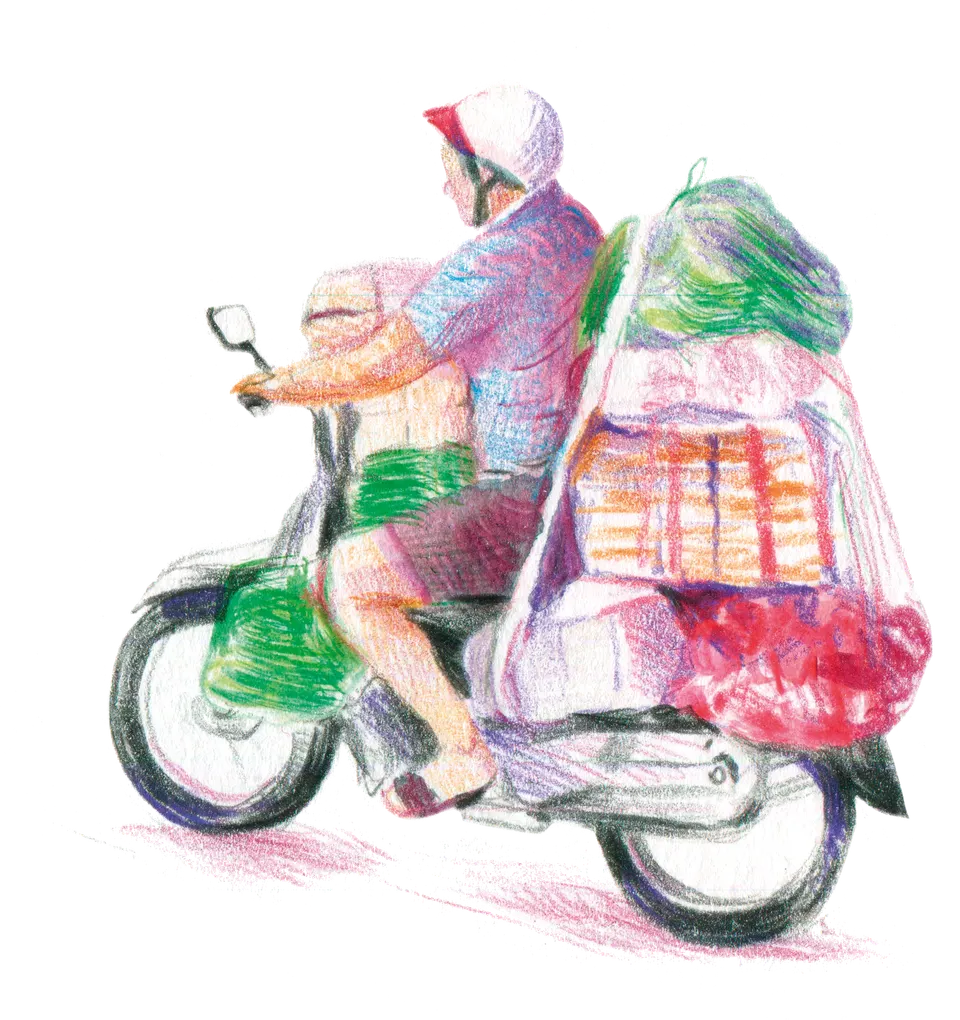
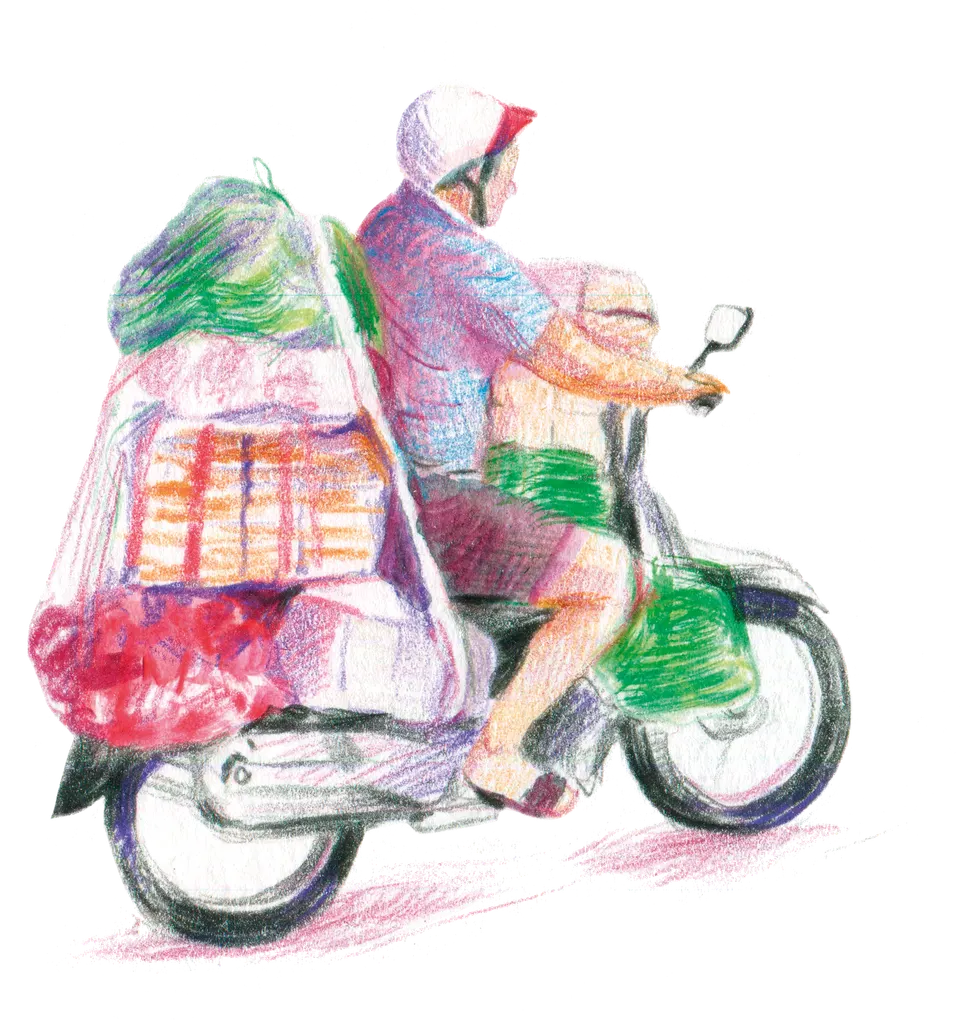
stand.png en image principale du hero + scooter v2 detoure sens gauche->droite
- scooter.png v2 (fond transparent, regarde a droite): variantes AVIF/WebP
  regenerees, animation remise gauche->droite, legendes Ha Noi gauche /
  Sai Gon droite (le sens suit toujours le dessin)
- stand.png = image principale: figure centrale du hero (700px max,
  fetchpriority high, LCP), retiree de la section voyages
- Sous-titre hero redondant avec le kicker supprime

diff --git a/docs/index.html b/docs/index.html
@@ -125,19 +125,28 @@
     <picture>
       <source type="image/avif" srcset="./assets/illus/lanternes-480.avif 480w, ./assets/illus/lanternes-960.avif 960w" sizes="(max-width: 600px) 26vw, 200px" />
       <source type="image/webp" srcset="./assets/illus/lanternes-480.webp 480w, ./assets/illus/lanternes-960.webp 960w" sizes="(max-width: 600px) 26vw, 200px" />
-      <img src="./assets/illus/lanternes-480.webp" width="480" height="898" alt="" fetchpriority="high" decoding="async" />
+      <img src="./assets/illus/lanternes-480.webp" width="480" height="898" alt="" decoding="async" />
     </picture>
   </div>
 
   <div class="wrap">
     <p class="cover-kicker">Cuisine de rue vietnamienne · Toulouse</p>
     <h1 class="cover-title" id="cover-title"><span class="viet" lang="vi">Chợ Vỉa Hè</span></h1>
-    <p class="cover-sub">Cuisine de rue vietnamienne — Toulouse</p>
     <p class="cover-annotation handwritten">le carnet de voyage d'une famille</p>
     <p class="cover-actions">
       <a class="btn-cta" href="https://bookings.zenchef.com/results?rid=377642" target="_blank" rel="noopener">Réserver une table</a>
       <a class="ink-link cover-scroll" href="#genese" data-ink>Feuilleter le carnet ↓</a>
     </p>
+
+    <figure class="cover-stand">
+      <picture>
+        <source type="image/avif" srcset="./assets/illus/stand-480.avif 480w, ./assets/illus/stand-960.avif 960w, ./assets/illus/stand-1440.avif 1440w" sizes="(max-width: 700px) 94vw, 700px" />
+        <source type="image/webp" srcset="./assets/illus/stand-480.webp 480w, ./assets/illus/stand-960.webp 960w, ./assets/illus/stand-1440.webp 1440w" sizes="(max-width: 700px) 94vw, 700px" />
+        <img src="./assets/illus/stand-960.webp" width="960" height="698" fetchpriority="high" decoding="async"
+             alt="Illustration au crayon de couleur : le stand de cuisine de rue Chợ Vỉa Hè, parasol, marmites fumantes et clients sur tabourets." />
+      </picture>
+      <figcaption class="handwritten">l'étal, comme là-bas</figcaption>
+    </figure>
   </div>
 </section>
 
@@ -211,15 +220,6 @@
       </div>
     </div>
     <p class="visually-hidden">Illustration&nbsp;: un scooter chargé traverse la route entre Hà Nội et Sài Gòn.</p>
-
-    <figure class="stand-feature">
-      <picture>
-        <source type="image/avif" srcset="./assets/illus/stand-480.avif 480w, ./assets/illus/stand-960.avif 960w, ./assets/illus/stand-1440.avif 1440w" sizes="(max-width: 700px) 92vw, 640px" />
-        <source type="image/webp" srcset="./assets/illus/stand-480.webp 480w, ./assets/illus/stand-960.webp 960w, ./assets/illus/stand-1440.webp 1440w" sizes="(max-width: 700px) 92vw, 640px" />
-        <img loading="lazy" decoding="async" src="./assets/illus/stand-960.webp" width="960" height="698" alt="Illustration au crayon de couleur : un stand de cuisine de rue vietnamien, marmites fumantes et tabourets." />
-      </picture>
-      <figcaption class="handwritten">l'étal, comme là-bas</figcaption>
-    </figure>
   </div>
 </section>
 

diff --git a/docs/home.css b/docs/home.css
@@ -492,22 +492,22 @@ h3 {
   transform: rotate(-4deg);
   z-index: 1;
 }
-.track-legend--hanoi { top: 6%; right: 6%; }
-.track-legend--saigon { bottom: 8%; left: 8%; color: var(--bleu); transform: rotate(3deg); }
+.track-legend--hanoi { top: 6%; left: 6%; }
+.track-legend--saigon { bottom: 8%; right: 8%; color: var(--bleu); transform: rotate(3deg); }
 .marg-paniers { width: clamp(80px, 18vw, 150px); bottom: 2%; right: 3%; opacity: 0.5; }
 
-/* stand.png = l'illustration centrale de la section voyages */
-.stand-feature {
-  margin: 2.5rem auto 0;
-  max-width: min(92vw, 640px);
+/* stand.png = image principale du site (hero) — styles dans la section couverture */
+.cover-stand {
+  margin: clamp(1.5rem, 4vw, 2.5rem) auto 0;
+  max-width: min(94vw, 700px);
   text-align: center;
 }
-.stand-feature img {
+.cover-stand img {
   width: 100%;
   height: auto;
   filter: drop-shadow(0 14px 22px rgba(30,26,23,0.14));
 }
-.stand-feature figcaption {
+.cover-stand figcaption {
   margin-top: 0.6rem;
   font-family: var(--f-hand);
   font-size: clamp(1.15rem, 3vw, 1.5rem);

diff --git a/docs/home.js b/docs/home.js
@@ -170,9 +170,8 @@
     var legSaigon = track.querySelector('.track-legend--saigon');
     if (!scooter) return;
 
-    // Distance de translation. Sens inversé (retour user): le dessin regarde
-    // à gauche, donc le scooter part de la droite et roule vers la gauche
-    // (Hà Nội à droite -> Sài Gòn à gauche).
+    // Le sens suit TOUJOURS le dessin: scooter.png v2 (détouré) regarde à
+    // droite, donc gauche -> droite (Hà Nội à gauche, Sài Gòn à droite).
     function travel() {
       var trackW = track.clientWidth;
       var sW = scooter.offsetWidth;
@@ -184,8 +183,8 @@
     if (legHanoi) gsap.set(legHanoi, { opacity: 0 });
     if (legSaigon) gsap.set(legSaigon, { opacity: 0 });
 
-    // état initial du scooter côté droit
-    gsap.set(scooter, { x: travel(), y: 0, rotation: 0, transformOrigin: '50% 100%' });
+    // état initial du scooter côté gauche
+    gsap.set(scooter, { x: 0, y: 0, rotation: 0, transformOrigin: '50% 100%' });
 
     var tl = gsap.timeline({
       scrollTrigger: {
@@ -197,7 +196,7 @@
     });
 
     // translation principale (ease none = suit le doigt/scroll = "on roule")
-    tl.to(scooter, { x: 0, ease: 'none', duration: 1 }, 0);
+    tl.to(scooter, { x: function () { return travel(); }, ease: 'none', duration: 1 }, 0);
 
     // bob vertical sinusoïdal + rotation : petites oscillations sur la course.
     // On les superpose via des keyframes pour l'effet "cahote sur le papier".
@@ -218,9 +217,9 @@
       tl.to(legSaigon, { opacity: 1, ease: 'power2.out', duration: 0.2 }, 0.62);
     }
 
-    // Recalcule la position de départ (droite) si la largeur change.
+    // Recalcule la course si la largeur change.
     ScrollTrigger.addEventListener('refreshInit', function () {
-      gsap.set(scooter, { x: travel() });
+      gsap.set(scooter, { x: 0 });
     });
   }
 